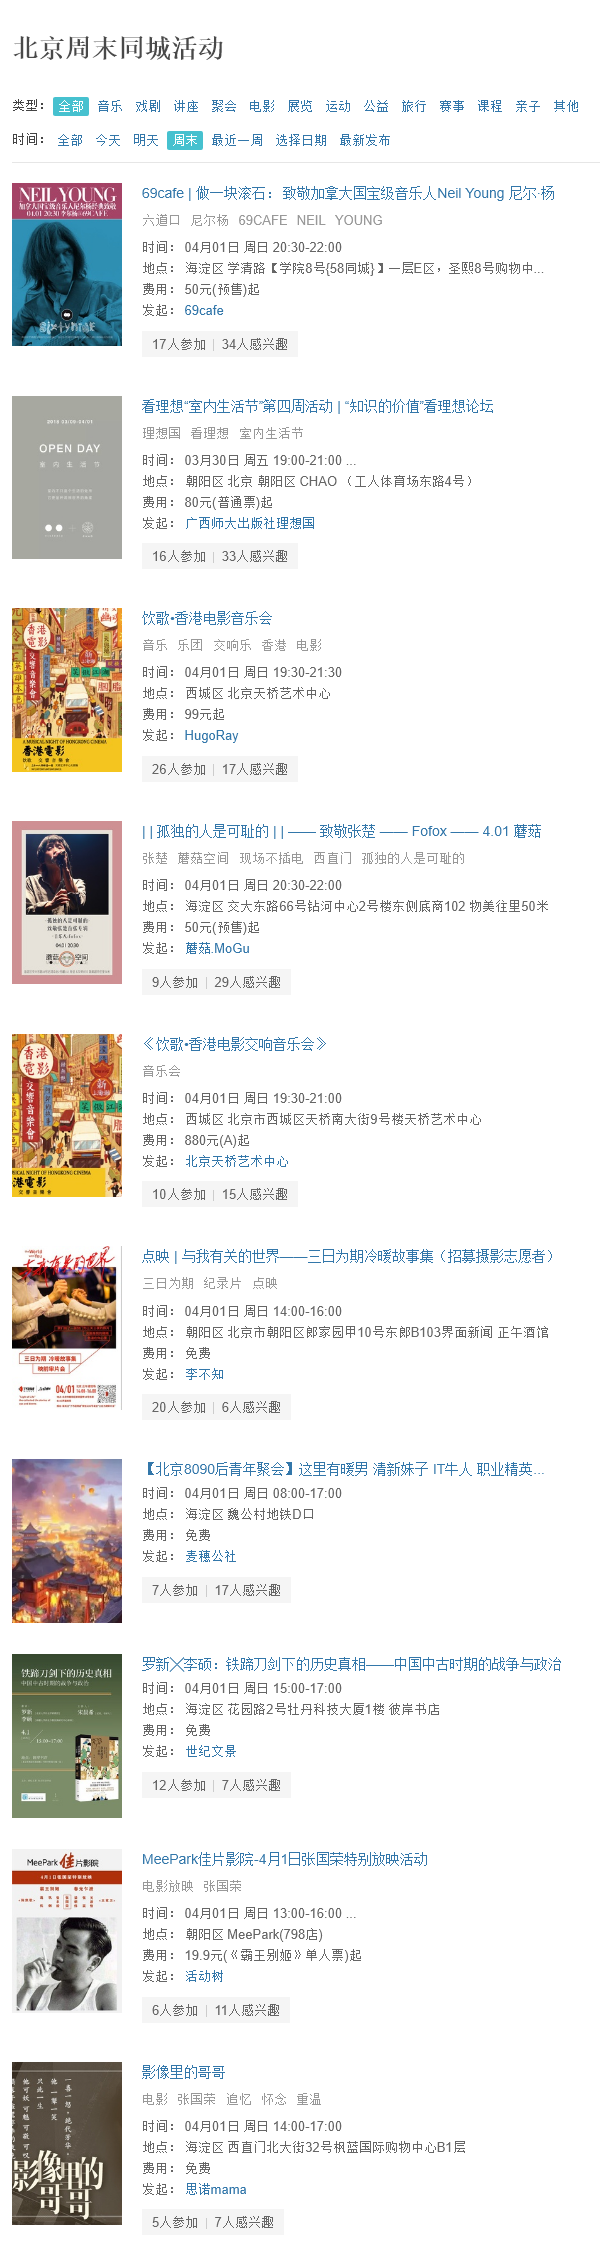
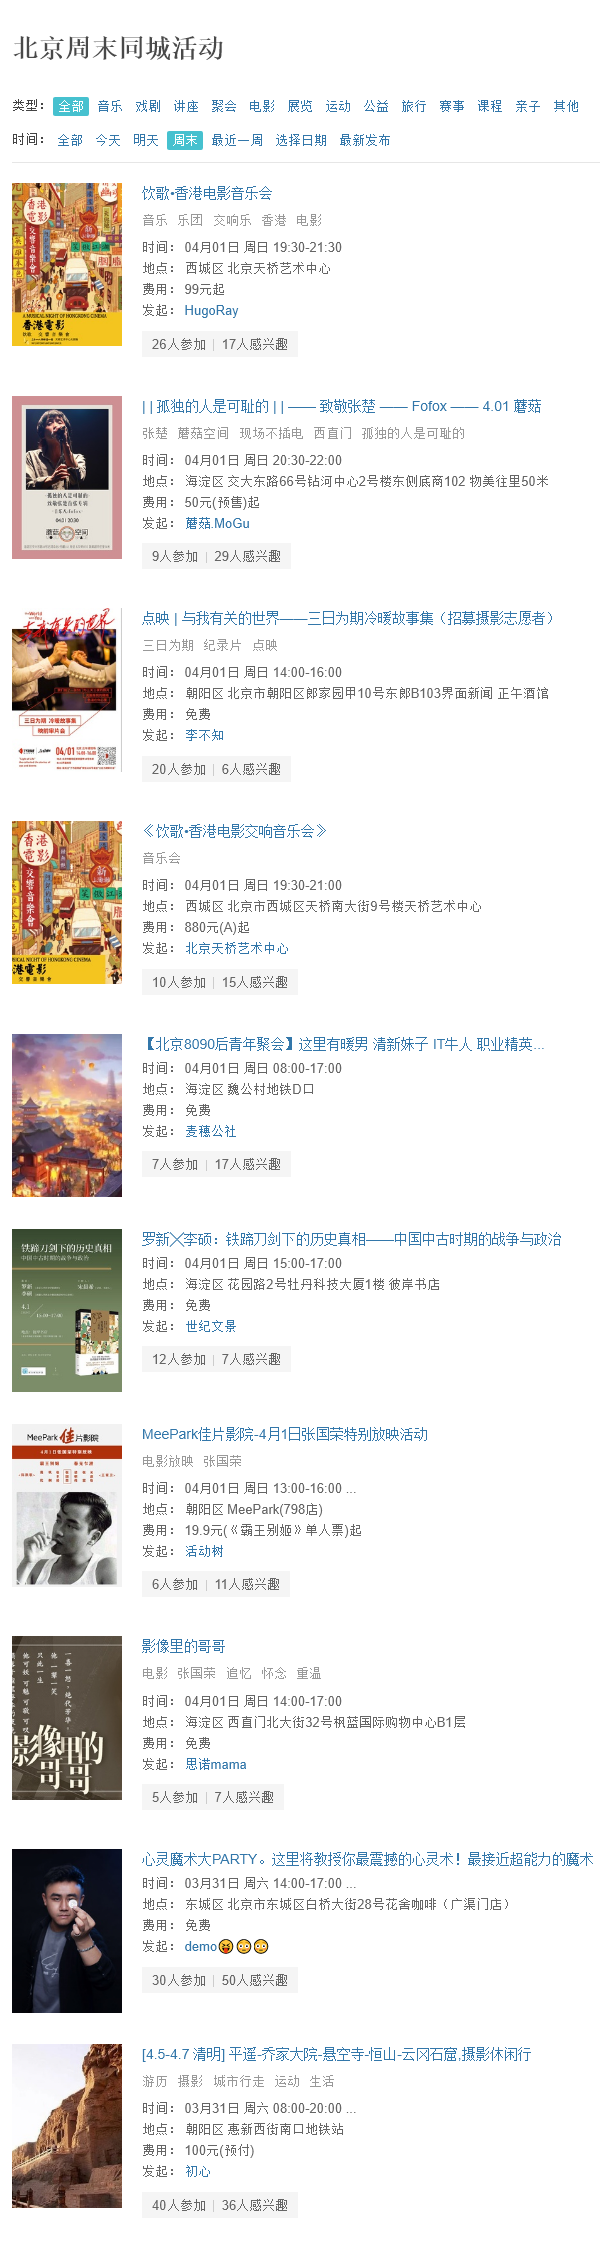
ss

diff --git a/server/wheretogo.js b/server/wheretogo.js
@@ -4,9 +4,10 @@
 const puppeteer = require('puppeteer')
 const utils = require('./lib/utils')
 const path = require('path')
-const axios = require('axios')
-const urlencode = require('urlencode')
-const groupName=urlencode('机器人')
+// const axios = require('axios')
+// const urlencode = require('urlencode')
+// const groupName = urlencode('机器人')
+const groupName = '海淀小分队'
 const main = async () => {
   const browser = await puppeteer.launch({
     args: ['--no-sandbox', '--disable-setuid-sandbox']
@@ -31,7 +32,8 @@ const main = async () => {
   console.log('get wheretogo1.png')
   // 发送微信消息
   let msgUrl = `http://item.redream.cn:5001/send_img_to_group/${groupName}/wheretogo1.png`
-  await axios.get(msgUrl)
+  // await axios.get(msgUrl)
+  await page.goto(msgUrl)
   console.log('send ', msgUrl)
 
   await page.goto('https://beijing.douban.com/events/weekend-all?start=10')
@@ -50,7 +52,8 @@ const main = async () => {
 
   // 发送微信消息
   msgUrl = `http://item.redream.cn:5001/send_img_to_group/${groupName}/wheretogo2.png`
-  await axios.get(msgUrl)
+  // await axios.get(msgUrl)
+  await page.goto(msgUrl)
   console.log('send ', msgUrl)
   await browser.close()
 }
